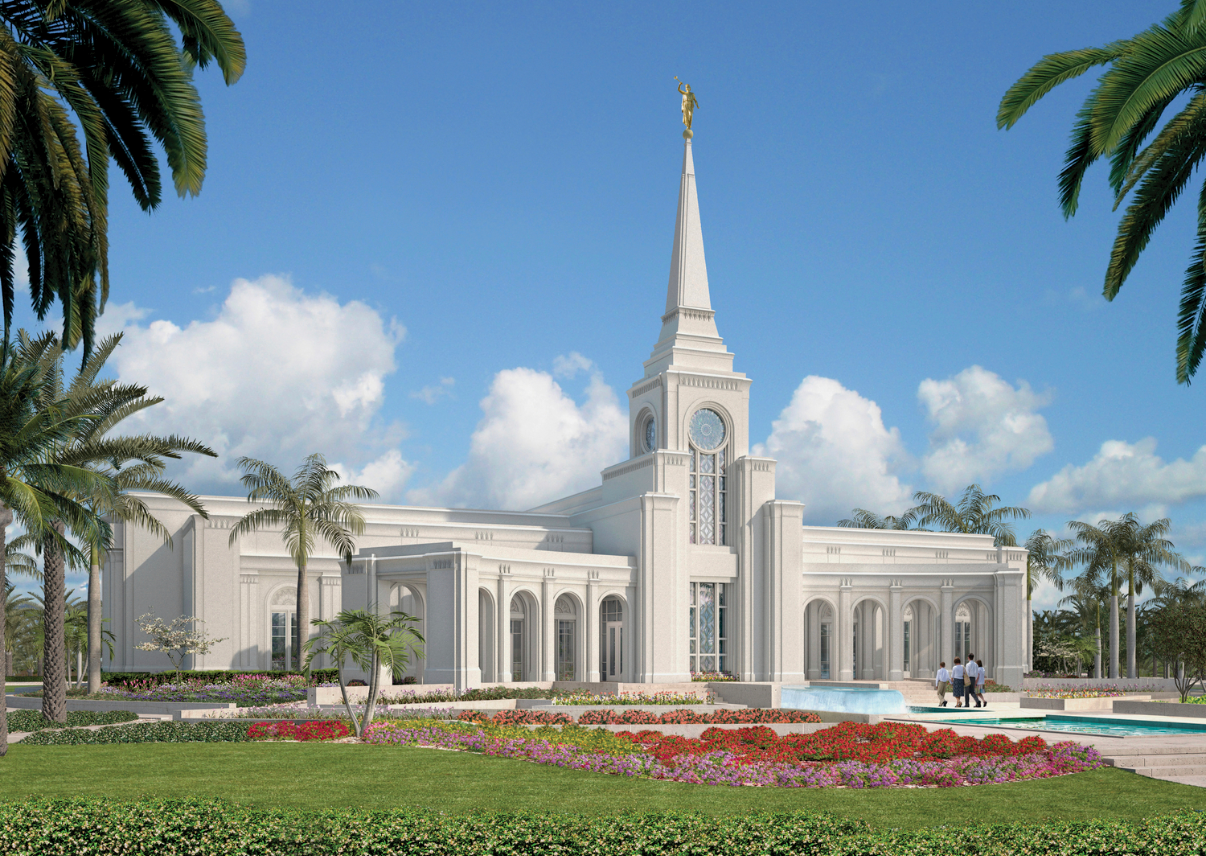
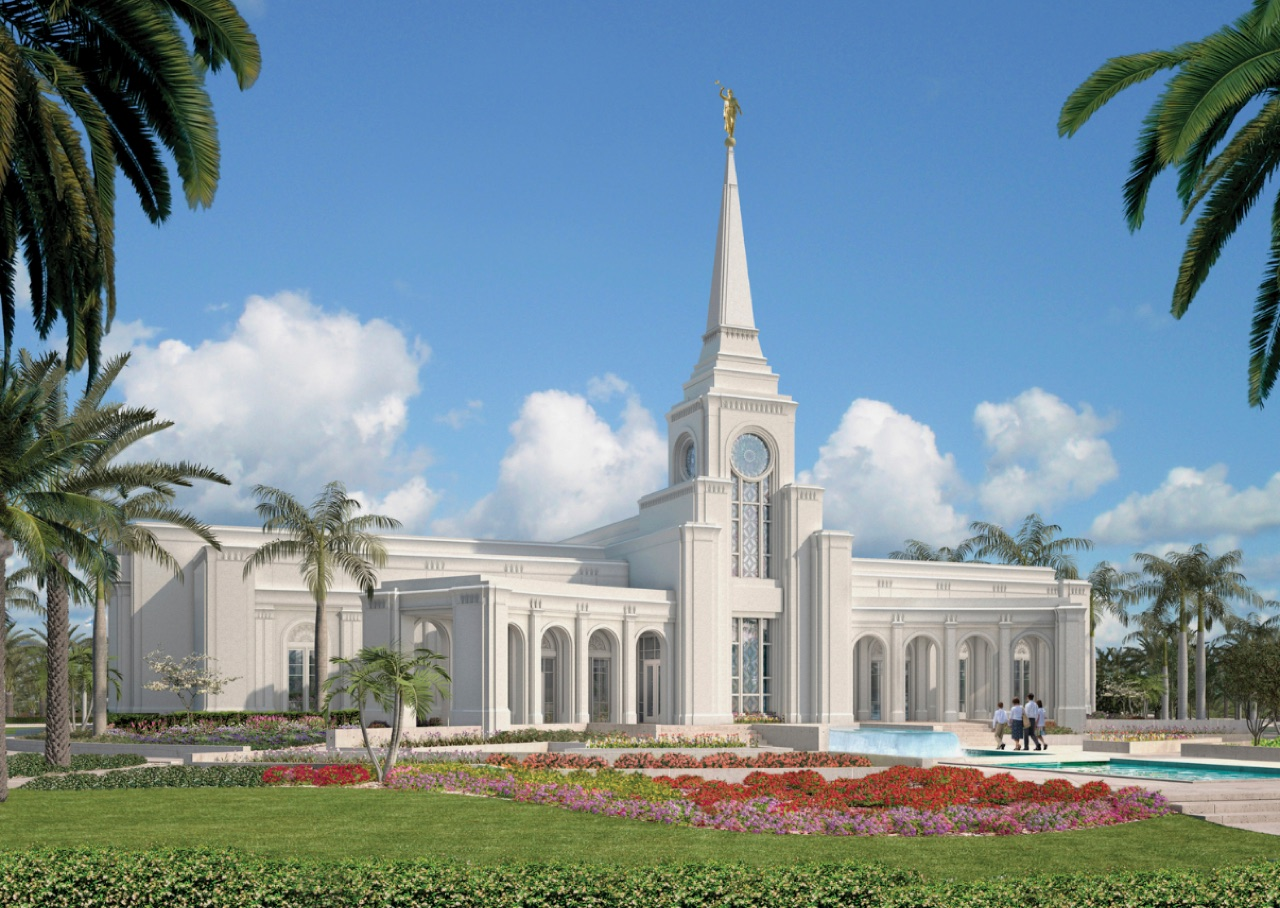
Optimize for mobile: compress hero photo, fix responsive layout
Re-encode temple.jpg as an actual compressed JPEG (2.2MB PNG mislabeled
as .jpg -> 356KB real JPEG). Prevent the temple name/date line from
wrapping mid-phrase on narrow screens. Move the stat grids and 2-column
form rows to real CSS with media query breakpoints instead of fixed
inline grid-template-columns, so they reflow properly on phones instead
of just shrinking. Bump form input font-size to 16px globally to stop
iOS Safari from auto-zooming on focus.

diff --git a/src/components/SignupForm.jsx b/src/components/SignupForm.jsx
@@ -112,7 +112,7 @@ export default function SignupForm({ onSaved }) {
         <input style={input} value={form.name} onChange={(e) => set('name', e.target.value)} placeholder="First and last name" />
       </div>
 
-      <div style={{ display: 'grid', gridTemplateColumns: '1fr 1fr', gap: 12 }}>
+      <div className="form-grid-2">
         <div style={field}>
           <label style={label}>Phone</label>
           <input style={input} type="tel" value={form.phone} onChange={(e) => set('phone', e.target.value)} placeholder="(321) 555-0100" />
@@ -129,7 +129,7 @@ export default function SignupForm({ onSaved }) {
 
       {form.role === 'driver' ? (
         <>
-          <div style={{ display: 'grid', gridTemplateColumns: '1fr 1fr', gap: 12 }}>
+          <div className="form-grid-2">
             <div style={field}>
               <label style={label}>Open seats</label>
               <input style={input} type="number" min="1" max="14" value={form.seats} onChange={(e) => set('seats', e.target.value)} />
@@ -156,7 +156,7 @@ export default function SignupForm({ onSaved }) {
         </div>
       )}
 
-      <div style={{ display: 'grid', gridTemplateColumns: '1fr 1fr', gap: 12, alignItems: 'end' }}>
+      <div className="form-grid-2" style={{ alignItems: 'end' }}>
         <div style={field}>
           <label style={label}>Children coming with you</label>
           <input style={input} type="number" min="0" max="12" value={form.kids} onChange={(e) => set('kids', e.target.value)} />

diff --git a/src/components/AdminRoster.jsx b/src/components/AdminRoster.jsx
@@ -59,7 +59,10 @@ export default function AdminRoster() {
             <h1 style={{ margin: '0 0 4px', fontFamily: serif, fontWeight: 500, fontSize: 30, color: C.navy }}>
               Cocoa Stake Temple Day roster
             </h1>
-            <p style={{ margin: 0, fontSize: 14, color: C.mute }}>Fort Lauderdale Florida Temple · Saturday, November 14, 2026</p>
+            <p style={{ margin: 0, fontSize: 14, color: C.mute }}>
+              <span className="nowrap">Fort Lauderdale Florida Temple</span>{' · '}
+              <span className="nowrap">Saturday, November 14, 2026</span>
+            </p>
           </div>
           <div style={{ display: 'flex', gap: 8 }}>
             <button
@@ -78,7 +81,7 @@ export default function AdminRoster() {
 
         {error && <p style={{ color: '#A33B2E', fontSize: 14, margin: '16px 0 0' }}>{error}</p>}
 
-        <div style={{ display: 'grid', gridTemplateColumns: 'repeat(5, 1fr)', gap: 8, margin: '22px 0' }}>
+        <div className="admin-stat-grid" style={{ margin: '22px 0' }}>
           {[
             [totals.seats, 'seats offered'],
             [totals.riders, 'riders needing seats'],

diff --git a/src/pages/PublicPage.jsx b/src/pages/PublicPage.jsx
@@ -96,7 +96,8 @@ export default function PublicPage() {
             No One Rides Alone
           </h1>
           <p style={{ margin: 0, fontSize: 16, color: C.mute }}>
-            Fort Lauderdale Florida Temple · Saturday, November 14, 2026
+            <span className="nowrap">Fort Lauderdale Florida Temple</span>{' · '}
+            <span className="nowrap">Saturday, November 14, 2026</span>
           </p>
           <p style={{ margin: '14px auto 0', maxWidth: 480, fontSize: 15, lineHeight: 1.55, color: C.ink }}>
             Offer a seat or find a ride with members of your ward. Bringing children? Sign up to trade off --
@@ -104,7 +105,7 @@ export default function PublicPage() {
           </p>
         </header>
 
-        <div style={{ display: 'grid', gridTemplateColumns: 'repeat(4, 1fr)', gap: 8, margin: '26px 0' }}>
+        <div className="stat-grid" style={{ margin: '26px 0' }}>
           {[
             [totals.seatsOffered, 'seats offered'],
             [totals.ridersNeedingSeats, 'riders needing seats'],

diff --git a/src/index.css b/src/index.css
@@ -22,4 +22,52 @@ input,
 select,
 textarea {
   font-family: inherit;
+  /* iOS Safari zooms the page on focus if a field's font is under 16px */
+  font-size: 16px;
+}
+
+.nowrap {
+  white-space: nowrap;
+}
+
+.stat-grid {
+  display: grid;
+  grid-template-columns: repeat(4, 1fr);
+  gap: 8px;
+}
+
+@media (max-width: 420px) {
+  .stat-grid {
+    grid-template-columns: repeat(2, 1fr);
+  }
+}
+
+.admin-stat-grid {
+  display: grid;
+  grid-template-columns: repeat(5, 1fr);
+  gap: 8px;
+}
+
+@media (max-width: 700px) {
+  .admin-stat-grid {
+    grid-template-columns: repeat(3, 1fr);
+  }
+}
+
+@media (max-width: 420px) {
+  .admin-stat-grid {
+    grid-template-columns: repeat(2, 1fr);
+  }
+}
+
+.form-grid-2 {
+  display: grid;
+  grid-template-columns: 1fr 1fr;
+  gap: 12px;
+}
+
+@media (max-width: 400px) {
+  .form-grid-2 {
+    grid-template-columns: 1fr;
+  }
 }
